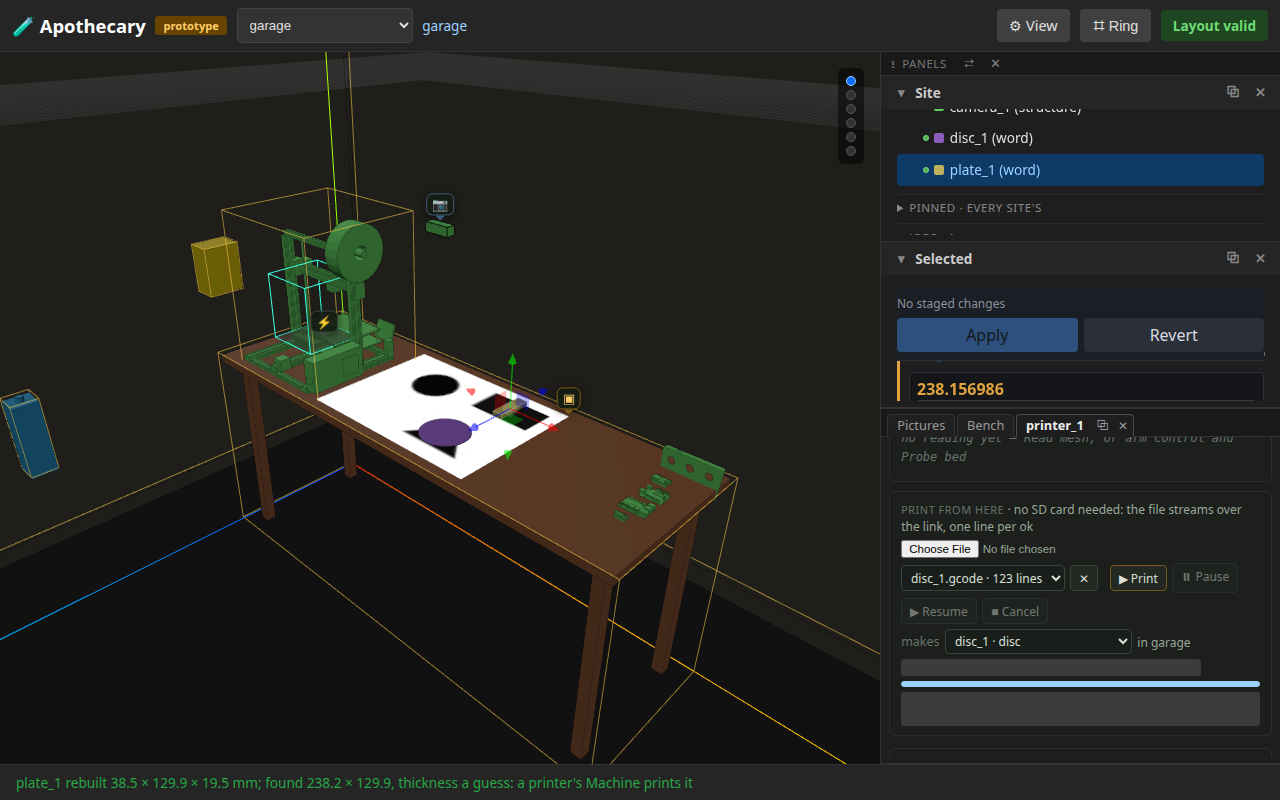
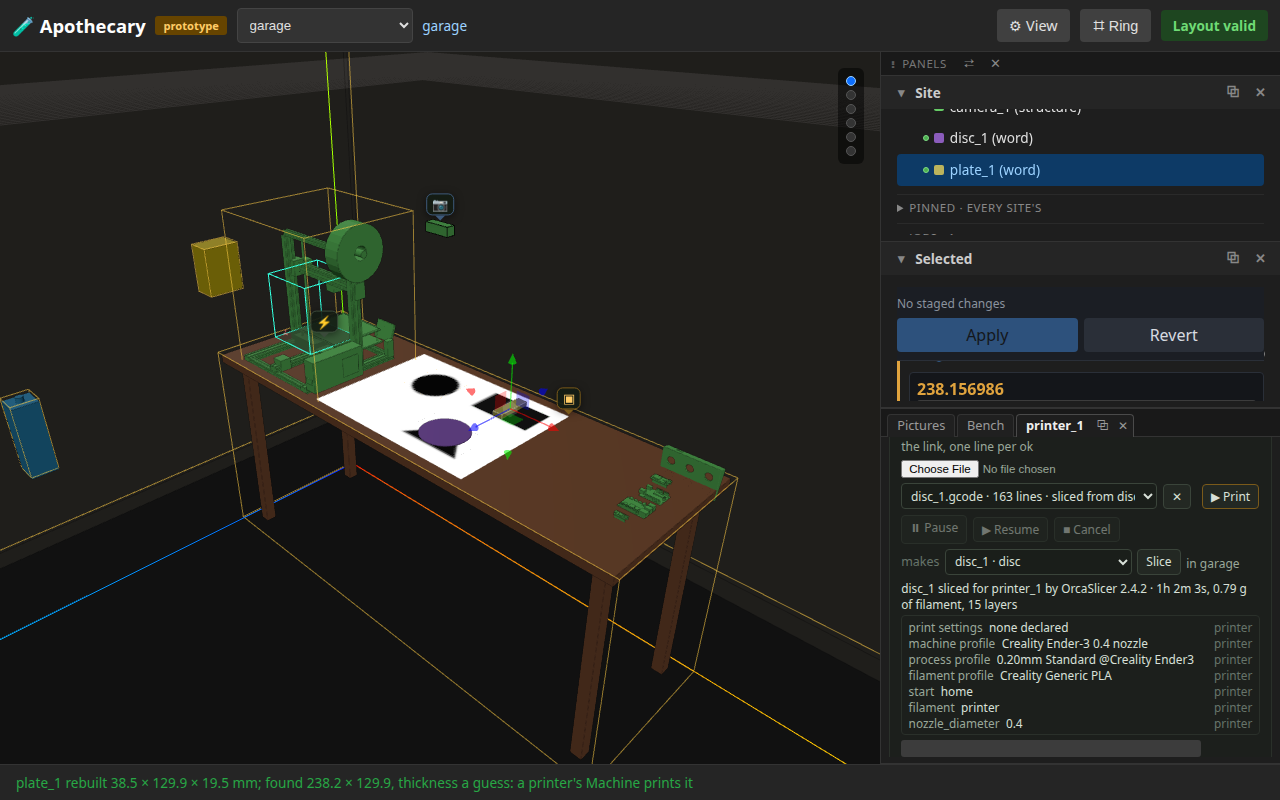
The loop from a picture to a print slices each piece before it prints it, and walkthrough 13 shows Slice
The loops plan holds each loop with one browser test that goes round it
twice, and the slicer plan made Slice a step of this one. The loop's own
test is updated rather than a second test added: one test per loop, and its
rounds were keeping a hand-made file where a slicer's should be.

- Round one: printer_1's Machine opened, the disc chosen under makes and
  Print from here's Slice pressed; the slicer's log, then the G-code chosen
  in the card's files, saying it was sliced from the disc for printer_1, and
  what the slice used, every value the printer's since a piece declares
  none (asserted, and the reason in the record). Then ▶ Print, as before,
  its lines read from the kept file.
- Round two: Slice on the plate's own ring, beside Print; the Machine left
  open chooses the plate under makes and slices it, its file chosen beside
  the disc's, each saying what it was sliced from; then Send file.
- After the second round, Print from here at 1280 and 1024 pixels wide:
  nothing in it overlaps and nothing pokes past its edge, and the card and
  the page are pictured at each width under pytest's temp folder
  (slice-shots).
- The slicer is the scripted OrcaSlicer (tests/slicer_helpers.py), named by
  the module's server; it now writes as many layers as FAKE_ORCA_LAYERS asks
  and a dwell after each move (FAKE_ORCA_DWELL), so a print is seen running
  on the simulated printer before it ends.
- Walkthrough 13, the browser suite's alone (browser_suite_only=True and
[…]

Changed region(s): [[0.6875, 0.5312, 1.0, 0.9688]]

diff --git a/tests/e2e/test_picture_to_print.py b/tests/e2e/test_picture_to_print.py
@@ -3,11 +3,12 @@ plan (docs/plans/ui-flows-2026-10-08.md), held end to end.
 
 A camera added above the bench and told which of this browser's cameras it is; a
 picture taken that lies on the bench; its shapes found; one made a piece; the piece
-adjusted in Selected; a print job for it started on printer_1; the job watched in
+adjusted in Selected; sliced for printer_1 by Slice in its Machine's Print from here,
+the G-code chosen there; a print job for it started on printer_1; the job watched in
 printer_1's Machine to its end. Then round again: the camera turned by its turn
-ring, a second picture taken with P, a second piece made and adjusted, and a
-second print, started from the ring's Send file this time, while the Machine stays
-open in the rail and the plate is chosen there by Print on its own ring. Every step
+ring, a second picture taken with P, a second piece made and adjusted, sliced by
+Slice on its own ring this time, and a second print, started from the ring's Send
+file, while the Machine stays open in the rail. Every step
 is taken through the page's own controls and ring cells, and what is asserted is
 what a person sees: the status line, Contents, the camera's section, the Machine's
 Print from here card and Site's Jobs. Each step's words name the next step.
@@ -23,8 +24,11 @@ has shapes to find in every frame and no real camera is ever opened. The server 
 this module's own: the simulated printer, idle, answers on ``/dev/ttyFAKE1``,
 identified and pinned to printer_1's mainboard as the bench's real board is, and
 its picture folder holds only what this run puts there. No real serial port is
-opened. The G-code each print streams is a short file kept through the card's own
-file box, as a file a slicer wrote would be; apothecary does not slice.
+opened. The slicer is the scripted OrcaSlicer of the unit tests
+(tests/slicer_helpers.py), named by the server's APOTHECARY_ORCASLICER: it answers
+as OrcaSlicer's command line does and writes a short file of layers, each move
+followed by a dwell the simulated printer takes in real time, so a print is seen
+running before it ends.
 """
 
 from __future__ import annotations
@@ -36,6 +40,7 @@ from pathlib import Path
 import httpx
 import pytest
 from playwright.sync_api import expect
+from slicer_helpers import write_fake_orcaslicer
 from test_camera import _drag
 from test_the_loop import _labels, _open_garage, _press, _ring_on, _said, _status, _y4m
 from viewer_ready import settled
@@ -45,29 +50,77 @@ BOARD = "printer_1.frame_system.mainboard"
 MACHINE = ".panel[data-panel='machine']"
 
 
-def _sliced(piece: str, moves: int = 60) -> str:
-    """A short file as a slicer would write one for ``piece``: a few seconds of moves,
-    each with a dwell the simulated printer takes in real time, so the print is seen
-    running before it ends."""
-    lines = [f"; {piece}, sliced elsewhere", "G28", "G90"]
-    for i in range(moves):
-        lines += [f"G1 X{40 + i % 20} Y{40 + i // 20} F3000", "G4 P30"]
-    lines.append("M84")
-    return "\n".join(lines) + "\n"
+# The scripted slicer's layers, each move followed by a dwell of this many ms: a few
+# seconds of printing on the simulated printer, seen running before it ends.
+LAYERS, DWELL = "15", "30"
 
 
-def _lines(gcode: str) -> int:
-    """The lines a print streams of a file: its comments and blank lines are not sent."""
-    return sum(1 for line in gcode.splitlines() if line.strip() and not line.startswith(";"))
+def _kept(page, url: str, piece: str) -> dict:
+    """The newest slice of ``piece`` (GET /slicer/slices) and the file it kept, as the
+    Print card lists it: its id, its name and the lines a print of it streams."""
+    record = next(
+        r for r in page.request.get(f"{url}/slicer/slices").json() if r["made"]["name"] == piece
+    )
+    (kept,) = [
+        f
+        for f in page.request.get(f"{url}/firmware/printers/prints").json()
+        if f["id"] == record["file_id"]
+    ]
+    return {"record": record, **kept}
+
+
+# The widths the page is laid out for: the rail beside the world, and the narrower.
+WIDTHS = ((1280, 800), (1024, 768))
+
+# Print from here, read as a person reads it: its blocks one under the other, the
+# controls of each row side by side, and nothing poking out of the card -- what scrolls
+# (the slice's values, the task log, the history) keeps its own overflow. What overlaps
+# or pokes out, named.
+CROWDED = """(sel) => {
+    const card = document.querySelector(sel);
+    const shown = (el) => { const r = el.getBoundingClientRect(); return r.width > 0 && r.height > 0; };
+    const over = (a, b) => a.left < b.right - 1 && b.left < a.right - 1 && a.top < b.bottom - 1 && b.top < a.bottom - 1;
+    const name = (el) => el.id || el.className || el.tagName;
+    const bad = [];
+    const blocks = [...card.children].filter(shown);
+    for (let i = 0; i < blocks.length; i++) for (let j = i + 1; j < blocks.length; j++)
+        if (over(blocks[i].getBoundingClientRect(), blocks[j].getBoundingClientRect())) bad.push(`${name(blocks[i])} over ${name(blocks[j])}`);
+    for (const row of card.querySelectorAll('.row')) {
+        const kids = [...row.children].filter(shown);
+        for (let i = 0; i < kids.length; i++) for (let j = i + 1; j < kids.length; j++)
+            if (over(kids[i].getBoundingClientRect(), kids[j].getBoundingClientRect())) bad.push(`${name(kids[i])} over ${name(kids[j])}`);
+    }
+    const edge = card.getBoundingClientRect().right;
+    const scrolled = (el) => el.closest('.slice-settings, .task-log, #print-history');
+    for (const el of card.querySelectorAll('*'))
+        if (shown(el) && !scrolled(el) && el.getBoundingClientRect().right > edge + 1) bad.push(`${name(el)} past the card's edge`);
+    return bad;
+}"""
 
 
 @pytest.fixture(scope="module")
-def url(base_url, start_server):
+def shots(tmp_path_factory):
+    """Where the Print card is pictured at each width, under pytest's temp folder."""
+    folder = tmp_path_factory.getbasetemp() / "slice-shots"
+    folder.mkdir(exist_ok=True)
+    return folder
+
+
+@pytest.fixture(scope="module")
+def url(base_url, start_server, tmp_path_factory):
     """This module's own server: the simulated printer idle on ``/dev/ttyFAKE1``,
-    identified (M115) and pinned to printer_1's mainboard. ``base_url`` is asked for
-    only so that with no server to run against this is skipped, as every browser test
-    is."""
-    url = start_server({"APOTHECARY_SIMULATED_PRINTER": "idle"})
+    identified (M115) and pinned to printer_1's mainboard, and the scripted OrcaSlicer
+    its slicer. ``base_url`` is asked for only so that with no server to run against
+    this is skipped, as every browser test is."""
+    orca = write_fake_orcaslicer(tmp_path_factory.mktemp("orca"))
+    url = start_server(
+        {
+            "APOTHECARY_SIMULATED_PRINTER": "idle",
+            "APOTHECARY_ORCASLICER": str(orca),
+            "FAKE_ORCA_LAYERS": LAYERS,
+            "FAKE_ORCA_DWELL": DWELL,
+        }
+    )
     with httpx.Client(base_url=url, timeout=15.0) as http:
         http.post("/firmware/devices/identify", json={"port": PRINTER}).raise_for_status()
         http.put(
@@ -213,7 +266,7 @@ def _found(page, host: str = "workbench") -> None:
 
 
 @pytest.mark.e2e
-def test_a_picture_to_a_print_twice(page, url, walkthrough):
+def test_a_picture_to_a_print_twice(page, url, walkthrough, shots):
     errors = []
     page.on("pageerror", lambda e: errors.append(str(e)))
     story = walkthrough(
@@ -222,27 +275,29 @@ def test_a_picture_to_a_print_twice(page, url, walkthrough):
         title="A picture to a print",
         intro=(
             "A camera over the bench, a picture taken, its shapes found, one made a "
-            "piece, the piece adjusted, and a print job for it on printer_1, watched to "
-            "its end in printer_1's Machine; then round again with the camera turned, "
-            "for a second piece and a second print. Every step is the page's own: a "
-            "cell of a ring, a button, a key or a box, and every step's words name the "
-            "next one."
+            "piece, the piece adjusted, sliced for printer_1, and a print job for it on "
+            "printer_1, watched to its end in printer_1's Machine; then round again with "
+            "the camera turned, for a second piece, sliced from its own ring, and a "
+            "second print. Every step is the page's own: a cell of a ring, a button, a "
+            "key or a box, and every step's words name the next one."
         ),
         runtime=(
             "It drives a real browser against a real server of its own. The browser's "
-            "camera is Chromium's fake one, playing a drawing of three shapes, and the "
-            "printer is the simulated one, pinned to printer_1's board as the bench's "
-            "real board is. It needs no network, opens no serial port, and refuses both."
+            "camera is Chromium's fake one, playing a drawing of three shapes, the "
+            "slicer a scripted stand-in for OrcaSlicer's command line, and the printer "
+            "the simulated one, pinned to printer_1's board as the bench's real board "
+            "is. It needs no network, opens no serial port, and refuses both."
         ),
         does_not_show=[
-            "**A real camera or a real printer.** The camera plays a drawing and the "
-            "printer is a simulation that answers as Marlin does; their real runs are "
-            "steps of the bench checklist.",
-            "**Slicing.** The G-code each print streams is a short file kept through "
-            "the card's own file box, as a file a slicer wrote from the piece would be. "
-            "Apothecary keeps, checks and streams G-code; it does not make it.",
-            "**A print that heats.** The file moves the head and dwells; it sets no "
-            "temperature, so the simulated hotend and bed stay cold.",
+            "**A real camera, a real slicer or a real printer.** The camera plays a "
+            "drawing; the slicer is a script that answers as OrcaSlicer's command line "
+            "does and writes a few layers of moves and dwells, whatever the piece; the "
+            "printer is a simulation that answers as Marlin does. OrcaSlicer's real "
+            "slices are docs/slicer.md's, and the camera's and the printer's real runs "
+            "are steps of the bench checklist.",
+            "**A print that heats.** The start the slice writes sets the hotend and the "
+            "bed, and the simulated printer is at what it is told at once; nothing "
+            "warms, and the file turns both off at its end.",
             "**What changes on every run.** When a print started and ended, how long it "
             "took, and the names pictures are kept under (the time each was taken) are "
             "blanked in the pictures and left out of the words, so this page "
@@ -375,22 +430,54 @@ def test_a_picture_to_a_print_twice(page, url, walkthrough):
     expect(makes.locator(f"option[value='{disc}']")).to_be_attached(timeout=10000)
     expect(machine.locator("#print-where")).to_have_text("in garage")
 
-    # A file sliced from the piece, kept through the card's own box; the piece chosen
-    # as what it makes; control armed.
-    machine.locator("#print-file").set_input_files(
-        {"name": f"{disc}.gcode", "mimeType": "text/plain", "buffer": _sliced(disc).encode()}
-    )
-    expect(machine.locator("#print-pick")).to_contain_text(f"{disc}.gcode", timeout=8000)
+    # The piece chosen as what it makes, and Slice: the slicer's log in the card while
+    # it runs, then the G-code it kept chosen in the card's files, saying what it was
+    # sliced from and for which printer, and what the slice used.
     makes.select_option(disc)
+    slicing = machine.locator("#print-slice")
+    expect(slicing).to_be_enabled()
+    slicing.click()
+    _said(
+        page,
+        f"slicing {disc} for printer_1: its log is in Print from here, and its G-code is "
+        "chosen there when it ends",
+    )
+    said = machine.locator("#print-slice-said")
+    expect(said).to_contain_text(f"{disc} sliced for printer_1 by OrcaSlicer 2.4.2", timeout=30000)
+    kept = _kept(page, url, disc)
+    pick = machine.locator("#print-pick")
+    expect(pick).to_have_value(kept["id"])
+    expect(pick.locator("option:checked")).to_have_text(
+        f"{disc}.gcode · {kept['lines']} lines · sliced from {disc} for printer_1"
+    )
+    expect(machine.locator("#print-slice-task")).to_be_hidden()
+    _said(
+        page,
+        f"{disc}.gcode kept and chosen: sliced from {disc} for printer_1, 1h 2m 3s, "
+        f"0.79 g of filament, {LAYERS} layers; ▶ Print prints it",
+    )
+    sliced_said = _status(page).inner_text()
+    # What the slice used, each value with where it came from: a made piece declares
+    # none, so every one is the printer's, and the words say why.
+    settings = {s["name"]: s for s in kept["record"]["settings"]}
+    assert settings["print settings"]["note"].startswith("a word's print settings are a stub")
+    assert {s["origin"] for s in settings.values()} == {"printer"}
+    expect(said.locator(".slice-settings")).to_contain_text("layer_height")
+    expect(said.locator(".slice-settings")).to_contain_text("start")
     machine.locator("#ctl").check()
     expect(page.locator("#control")).to_be_visible(timeout=5000)
     expect(machine.locator("#print-start")).to_be_enabled()
     machine.locator("#print-card").scroll_into_view_if_needed()
     story.shows(
-        "printer_1's Machine offers the piece to print",
+        "Slice, in printer_1's Machine, slices the piece and chooses its G-code",
         "printer_1's ring, Device › Open: its Machine in the rail, beside Selected. Print "
-        f"from here keeps a file a slicer wrote for {disc}, and lists the pieces of the "
-        f"garage under makes; {disc} is chosen, and control is armed.",
+        f"from here lists the pieces of the garage under makes; {disc} chosen, its Slice "
+        "slices it for printer_1, the slicer's log in the card while it runs. The G-code "
+        "it kept is chosen in the card's files, saying what it was sliced from and for "
+        "which printer, and the card lists what the slice used -- each value from the "
+        "printer's profile, a piece declaring none -- with the slicer's estimate; "
+        "control is armed.",
+        shown=sliced_said,
         blank=CHANGING,
     )
 
@@ -421,7 +508,7 @@ def test_a_picture_to_a_print_twice(page, url, walkthrough):
     # 9. Watched to its end, in the Machine and in Site's Jobs.
     progress = machine.locator("#print-progress")
     expect(progress).to_contain_text(f"{disc}.gcode · done", timeout=30000)
-    lines = _lines(_sliced(disc))
+    lines = kept["lines"]
     expect(progress).to_contain_text(f"{disc}.gcode · done · {lines}/{lines} lines (100.0%)")
     expect(machine.locator("#print-history")).to_contain_text(
         f"print · {disc}.gcode → {disc} · done · {lines}/{lines} lines"
@@ -519,27 +606,34 @@ def test_a_picture_to_a_print_twice(page, url, walkthrough):
     expect(makes.locator(f"option[value='{plate}']")).to_be_attached(timeout=10000)
     expect(makes).to_have_value(disc)
     _ring_on(page, plate)
-    assert _labels(page)[-3:] == ["Picture", "Part", "Print"]
-    _press(page, "Print")
+    assert _labels(page)[-4:] == ["Picture", "Part", "Print", "Slice"]
+    _press(page, "Slice")
     _said(
         page,
-        f"Print: printer_1's Machine makes {plate}: choose its file in Print from here, "
-        "then ▶ Print",
+        f"Slice: slicing {plate} for printer_1: its log is in Print from here, and its "
+        "G-code is chosen there when it ends",
     )
     expect(makes).to_have_value(plate)
     assert page.evaluate("() => window.fractalViewer.selectedName") == plate
-    machine.locator("#print-file").set_input_files(
-        {"name": f"{plate}.gcode", "mimeType": "text/plain", "buffer": _sliced(plate).encode()}
+    expect(said).to_contain_text(f"{plate} sliced for printer_1 by OrcaSlicer 2.4.2", timeout=30000)
+    plate_kept = _kept(page, url, plate)
+    expect(pick).to_have_value(plate_kept["id"])
+    expect(pick.locator("option:checked")).to_have_text(
+        f"{plate}.gcode · {plate_kept['lines']} lines · sliced from {plate} for printer_1"
     )
-    expect(machine.locator("#print-pick")).to_contain_text(f"{plate}.gcode", timeout=8000)
-    expect(makes).to_have_value(plate)
+    _said(page, f"{plate}.gcode kept and chosen: sliced from {plate} for printer_1")
+    # The first piece's file is still kept, and still says what it was sliced from.
+    expect(pick.locator(f"option[value='{kept['id']}']")).to_have_text(
+        f"{disc}.gcode · {kept['lines']} lines · sliced from {disc} for printer_1"
+    )
     settled(page)
     story.shows(
-        "Print, on the piece's ring, chooses it in printer_1's Machine",
-        f"{plate}'s ring ends with Print, a printer being pinned in the garage: it brings "
-        f"printer_1's Machine forward with {plate} chosen under makes -- listed there "
-        "already, though the Machine stayed open while it was made -- and the status line "
-        "names the next step. A file sliced for it is kept beside it.",
+        "Slice, on the piece's ring, slices it in printer_1's Machine",
+        f"{plate}'s ring ends with Print and Slice, a printer being pinned in the garage. "
+        f"Slice brings printer_1's Machine forward with {plate} chosen under makes -- "
+        "listed there already, though the Machine stayed open while it was made -- and "
+        "slices it there; its G-code is chosen beside the first piece's, each saying what "
+        "it was sliced from. The status line names ▶ Print.",
         shown=_status(page).inner_text(),
         blank=CHANGING,
     )
@@ -563,7 +657,11 @@ def test_a_picture_to_a_print_twice(page, url, walkthrough):
     expect(machine.locator("#print-progress")).to_contain_text(
         f"{plate}.gcode · done", timeout=30000
     )
-    _said(page, f"{plate}.gcode on {PRINTER}, making {plate}, ended: done, {lines}/{lines} lines")
+    plate_lines = plate_kept["lines"]
+    _said(
+        page,
+        f"{plate}.gcode on {PRINTER}, making {plate}, ended: done, {plate_lines}/{plate_lines} lines",
+    )
 
     # 16. Two jobs, each naming its piece: the Machine's history and Site's Jobs.
     history = machine.locator("#print-history > div")
@@ -588,6 +686,18 @@ def test_a_picture_to_a_print_twice(page, url, walkthrough):
         ),
         blank=CHANGING,
     )
+
+    # Print from here at each width the page is laid out for, with the second piece's
+    # slice said under makes: nothing in it overlaps, and nothing pokes out of it.
+    card = machine.locator("#print-card")
+    for width, height in WIDTHS:
+        page.set_viewport_size({"width": width, "height": height})
+        card.scroll_into_view_if_needed()
+        expect(said).to_contain_text(f"{plate} sliced for printer_1", timeout=5000)
+        settled(page)
+        assert page.evaluate(CROWDED, f"{MACHINE} #print-card") == [], width
+        card.screenshot(path=str(shots / f"print-card-{width}.png"))
+        page.screenshot(path=str(shots / f"page-{width}.png"))
 
     assert "/viewer/sites/garage" in page.url  # nothing switched the site
     assert errors == []

diff --git a/tests/slicer_helpers.py b/tests/slicer_helpers.py
@@ -11,7 +11,9 @@ process's layer height, OrcaSlicer's estimate comments and a config block) and
 ``result.json``. ``FAKE_ORCA`` in its environment scripts a failure: ``outside``
 prints the error OrcaSlicer gives for a model off the bed and exits non-zero;
 ``silent`` exits zero and writes nothing; ``slow`` takes a minute first, for a
-cancel to stop. Each argv is recorded beside it.
+cancel to stop. ``FAKE_ORCA_LAYERS`` says how many layers it writes (three) and
+``FAKE_ORCA_DWELL`` a dwell in ms after each move, so a print of it is seen
+running on the simulated printer. Each argv is recorded beside it.
 """
 
 from __future__ import annotations
@@ -61,19 +63,22 @@ FAKE_ORCASLICER = textwrap.dedent(r"""
         sys.exit(205)
     layer = float(process["layer_height"])
     loops = process.get("wall_loops")
+    layers = int(os.environ.get("FAKE_ORCA_LAYERS", "3"))
+    dwell = os.environ.get("FAKE_ORCA_DWELL")  # ms after each move, for a print seen running
     lines = ["; HEADER_BLOCK_START", "; generated by OrcaSlicer 2.4.2 (fake)",
-             "; total layer number: 3", "; HEADER_BLOCK_END", "",
+             f"; total layer number: {layers}", "; HEADER_BLOCK_END", "",
              "; EXECUTABLE_BLOCK_START", *machine.get("machine_start_gcode", "").splitlines(),
              "G90", "M83"]
-    for n in range(1, 4):
+    for n in range(1, layers + 1):
         z = round(n * layer, 3)
-        lines += [";LAYER_CHANGE", f"G1 Z{z} F600", "G1 X105 Y105 F3000",
-                  "G1 X115 Y105 E0.5", "G1 X115 Y115 E0.5", "G1 X105 Y115 E0.5", "G1 X105 Y105 E0.5"]
+        lines += [";LAYER_CHANGE", f"G1 Z{z} F600", "G1 X105 Y105 F3000"]
+        for move in ("G1 X115 Y105 E0.5", "G1 X115 Y115 E0.5", "G1 X105 Y115 E0.5", "G1 X105 Y105 E0.5"):
+            lines += [move, f"G4 P{dwell}"] if dwell else [move]
     lines += ["G1 X5 Y176 F3000 ; present print", "M104 S0", "M140 S0", "M84 X Y E",
               "; EXECUTABLE_BLOCK_END", "",
               "; filament used [mm] = 263.81", "; filament used [cm3] = 0.63",
               "; filament used [g] = 0.79", "; total filament used [g] = 0.79",
-              "; total layers count = 3",
+              f"; total layers count = {layers}",
               "; estimated printing time (normal mode) = 1h 2m 3s",
               "; estimated first layer printing time (normal mode) = 48s", "",
               "; CONFIG_BLOCK_START", f"; layer_height = {process['layer_height']}",
